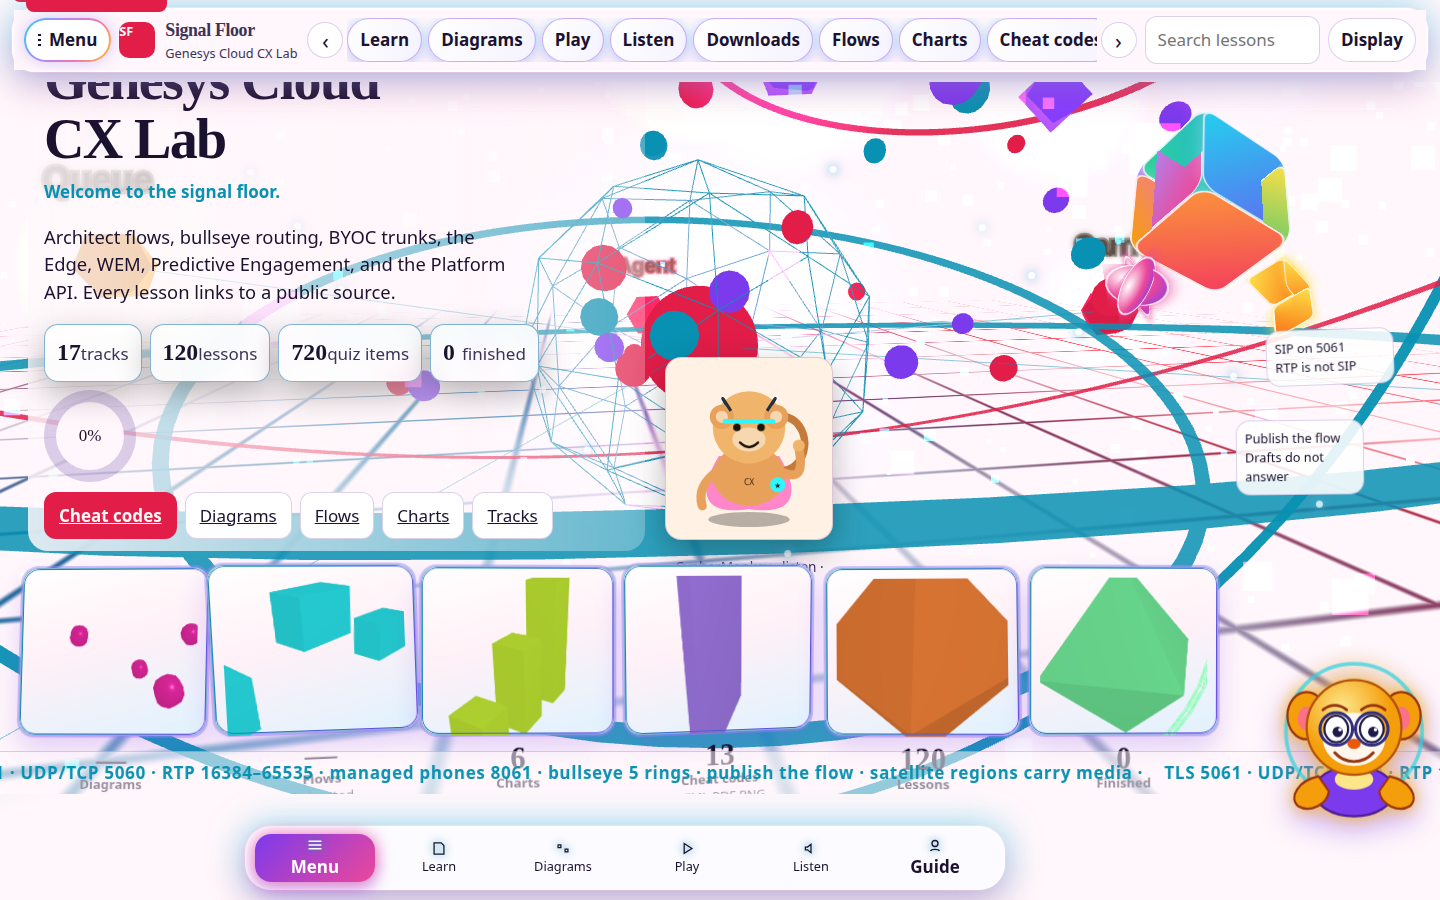
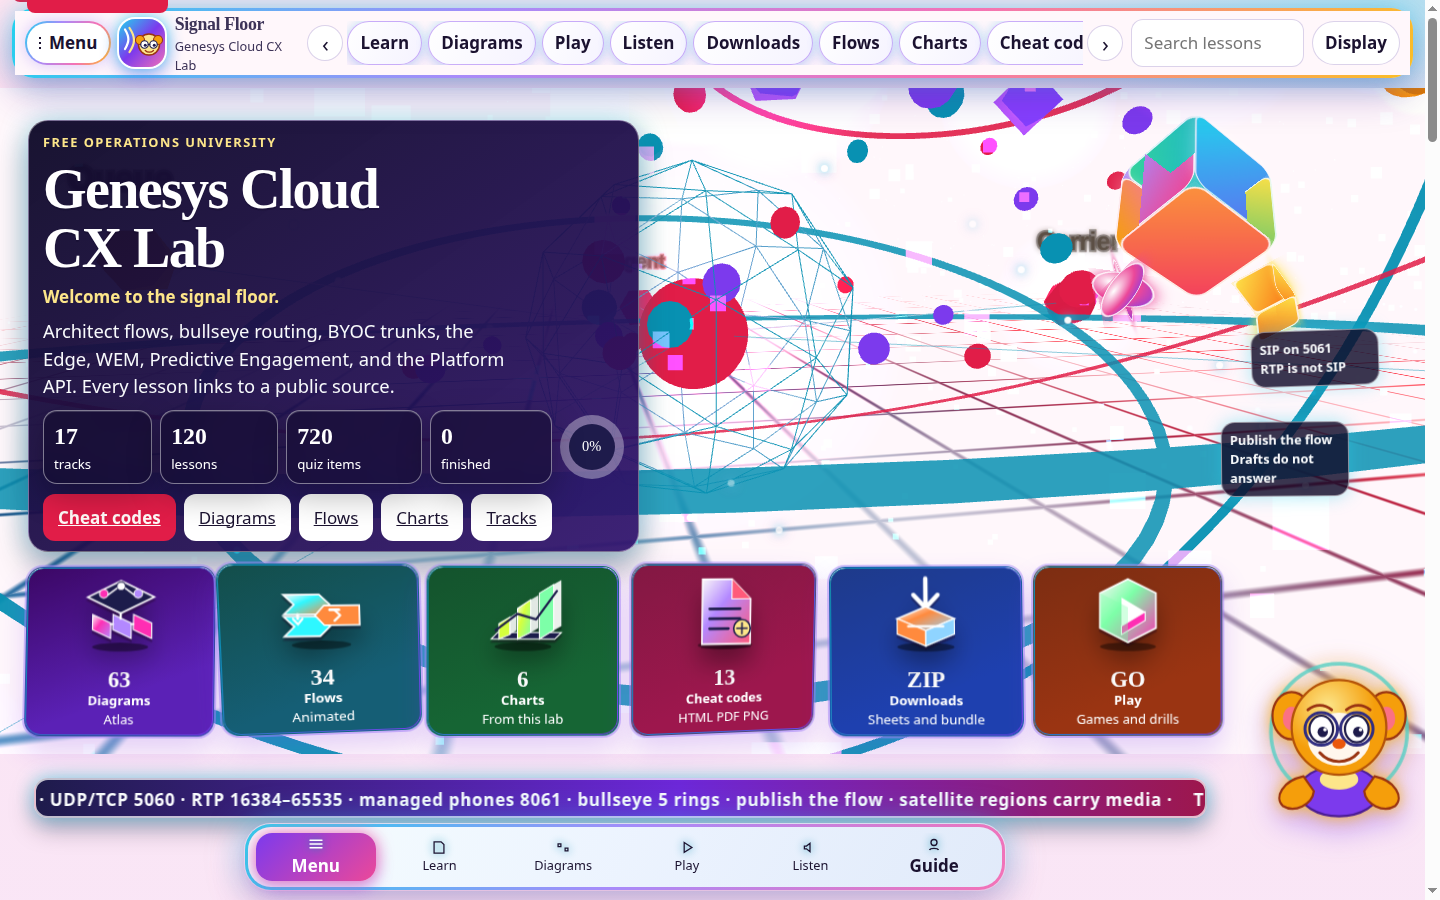
Keep the home tiles clear of the ticker and the guide.
Load diagram and flow counts with the icons, stack phone labels beside the marks, and leave a gap above the fixed ticker so the row no longer covers the tiles.

diff --git a/campus/assets/round2.css b/campus/assets/round2.css
@@ -595,7 +595,7 @@ body[data-home="1"] .hero-bleed {
 }
 .hero-copy {
   scroll-margin-top: calc(var(--chrome-h, 64px) + 28px);
-  background: linear-gradient(145deg, rgba(15, 10, 40, 0.88), rgba(76, 29, 149, 0.62)) !important;
+  background: linear-gradient(145deg, rgba(15, 10, 40, 0.96), rgba(49, 20, 110, 0.94)) !important;
   color: #f8fafc !important;
   border: 1px solid rgba(255, 255, 255, 0.38);
   box-shadow: 0 0 28px rgba(34, 211, 238, 0.35), 0 16px 32px rgba(15, 10, 40, 0.35);
@@ -682,7 +682,9 @@ body[data-home="1"] .hero-bleed {
 }
 #home-icons .live-icon { display: none !important; }
 #home-icons .iso-stage.has-live svg.iso { opacity: 1 !important; }
+#home-icons .tile-copy { display: flex; flex-direction: column; min-width: 0; align-items: center; }
 #home-icons .icon-tile b { font-size: 1.35rem; line-height: 1.1; }
+body[data-home="1"] .audio-dock { margin-top: calc(var(--bar-h, 64px) + 88px); }
 #home-icons .tile-label,
 #home-icons .tile-note { position: relative; z-index: 2; }
 [data-theme="bloom"] #home-icons .icon-tile:nth-child(1) { background: linear-gradient(160deg, #3b0764, #5b21b6 70%) !important; }
@@ -734,12 +736,82 @@ body[data-home="1"] .hero-bleed {
 }
 body[data-home="1"] main { padding-bottom: calc(var(--bar-h, 64px) + 72px) !important; }
 .site-footer.lab-footer { padding-bottom: calc(var(--bar-h, 64px) + 78px); }
+.hero-copy { padding: 12px 14px 10px; }
+.hero-copy h1 { margin-bottom: 6px; }
+.hero-copy .lede { margin: 0 0 8px; }
+.hero-copy .statrow { flex-wrap: nowrap; align-items: center; }
+.hero-copy .stat { min-width: 0; flex: 1 1 auto; padding: 8px 10px; }
+.hero-copy .stat b { display: block; }
+.hero-copy .stat span { display: block; font-size: 0.78rem; }
+.hero-copy .ring {
+  width: 64px;
+  height: 64px;
+  flex: 0 0 auto;
+  background: conic-gradient(#fde68a calc(var(--p) * 1%), rgba(255, 255, 255, 0.35) 0);
+}
+.hero-copy .ring span {
+  width: 46px;
+  height: 46px;
+  background: #1e1b4b;
+  color: #ffffff;
+  font-size: 0.85rem;
+}
+@media (min-width: 701px) {
+  #home-icons.icon-parade {
+    width: calc(100% - 210px);
+    margin-left: 16px;
+    margin-right: 0;
+  }
+  #home-icons .iso-stage { width: 104px; height: 88px; }
+  #home-icons .icon-tile svg,
+  #home-icons .icon-tile svg.iso { width: 96px !important; height: 82px !important; }
+  #home-icons .icon-tile { min-height: 0; padding-top: 8px; padding-bottom: 8px; }
+}
 @media (max-width: 700px) {
   .brand .mark.lab-logo,
   .brand .mark.lab-logo svg { width: 44px; height: 44px; }
   .ticker { left: 8px; right: 8px; bottom: calc(var(--bar-h, 64px) + 14px); }
-  #home-icons .icon-tile { min-height: 168px; }
-  #home-icons .icon-tile svg.iso { width: 96px !important; height: 84px !important; }
+  body[data-home="1"] .hero-bleed { padding-top: 6px; }
+  .hero-scrim { padding: 8px 8px 0; }
+  .hero-copy, .hero-scrim, .hero-bleed, #home-icons { max-width: 100%; min-width: 0; }
+  .hero-copy { padding-right: 76px; }
+  .hero-copy h1 { font-size: 1.6rem; }
+  .hero-copy .lede {
+    display: -webkit-box;
+    -webkit-line-clamp: 3;
+    -webkit-box-orient: vertical;
+    overflow: hidden;
+    font-size: 0.95rem;
+  }
+  .hero-copy .statrow { flex-wrap: nowrap; overflow: visible; }
+  .hero-copy .stat { flex: 1 1 0; max-width: none; min-width: 0; padding: 4px 3px; }
+  .hero-copy .stat b { font-size: 1.05rem; }
+  .hero-copy .stat span { font-size: 0.68rem; line-height: 1.15; }
+  .hero-copy .chips { flex-wrap: nowrap; overflow-x: auto; max-width: 100%; }
+  .hero-copy .chips .btn { flex: 0 0 auto; }
+  #hero-play { display: none !important; }
+  #home-icons.icon-parade {
+    grid-template-columns: minmax(0, 1fr) minmax(0, 1fr);
+    gap: 8px;
+    width: auto;
+    margin: 8px 8px 0;
+  }
+  #home-icons .icon-tile {
+    flex-direction: row;
+    align-items: center;
+    min-width: 0;
+    min-height: 72px;
+    padding: 6px 8px;
+    gap: 6px;
+    text-align: left;
+  }
+  #home-icons .iso-stage { width: 58px; height: 52px; margin: 0; flex: none; }
+  #home-icons .icon-tile svg,
+  #home-icons .icon-tile svg.iso { width: 54px !important; height: 48px !important; }
+  #home-icons .tile-copy { align-items: flex-start; flex: 1 1 auto; }
+  #home-icons .icon-tile b { font-size: 1rem; }
+  #home-icons .tile-label { font-size: 0.92rem; line-height: 1.15; }
+  #home-icons .tile-note { font-size: 0.72rem; line-height: 1.15; }
 }
 .sources-deeper .src-flag {
   display: inline-block;

diff --git a/campus/assets/app.js b/campus/assets/app.js
@@ -685,6 +685,19 @@ async function mountHomeViz() {
   if (homeEl.hidden) return;
   scheduleHero();
   paintIcons($("#home-icons"), null);
+  try {
+    const { DIAGRAMS } = await import("./diagrams.js");
+    if (!homeEl.hidden) {
+      paintIcons($("#home-icons"), null, {
+        diagrams: DIAGRAMS.length,
+        flows: DIAGRAMS.filter((item) => item.flow).length,
+        charts: 6,
+        sheets: 13
+      });
+    }
+  } catch (err) {
+    status(err.message || "Icon counts did not load");
+  }
   scheduleHomeViz();
 }
 
@@ -712,7 +725,7 @@ function paintIcons(host, track, counts = {}) {
       ["#/tracks", track ? ht(track.id, track.title) : "Lessons", lessons.length, "prism", `${minutes} min`],
       ["#/tracks", "Finished", done, "star", track ? "This track" : "This browser"]
     ];
-  host.innerHTML = tiles.map(([href, label, num, kind, note], index) => `<a class="icon-tile" href="${href}">${iconStage(kind, index)}<b data-count="${esc(num)}">${esc(num)}</b><span class="tile-label">${esc(label)}</span><span class="tile-note">${esc(note)}</span></a>`).join("");
+  host.innerHTML = tiles.map(([href, label, num, kind, note], index) => `<a class="icon-tile" href="${href}">${iconStage(kind, index)}<span class="tile-copy"><b data-count="${esc(num)}">${esc(num)}</b><span class="tile-label">${esc(label)}</span><span class="tile-note">${esc(note)}</span></span></a>`).join("");
   host.querySelectorAll("[data-count]").forEach((el) => countUp(el, el.dataset.count));
   refreshLive();
 }
